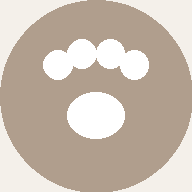
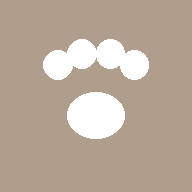
Add files via upload

diff --git a/index.html b/index.html
@@ -594,7 +594,7 @@ nav.menu-principal a.activo{
 
 <div class="card" id="descarga-app-card" style="text-align:center;">
 <h2 class="card-title" style="display:flex;align-items:center;justify-content:center;gap:10px;">
-<img src="icon-192.png" alt="" style="height:1em;width:1em;vertical-align:middle;border-radius:6px;">
+<img src="icon-192.png" alt="" style="height:1em;width:1em;vertical-align:middle;border-radius:50%;">
 App oficial de MichiHub
 </h2>
 <p style="margin-bottom:14px;opacity:0.85;">
@@ -604,7 +604,7 @@ Instalá la app en tu celular y accedé directo desde tu pantalla de inicio, sin
 ✅ Firma digital verificada (Google Digital Asset Links) · Publicada por el creador de este sitio · No se descarga desde ninguna tienda de terceros
 </p>
 <a href="MichiHub.apk" download class="btn-descarga" style="display:inline-flex;align-items:center;gap:8px;">
-<img src="icon-192.png" alt="" style="height:1em;width:1em;vertical-align:middle;border-radius:4px;">
+<img src="icon-192.png" alt="" style="height:1em;width:1em;vertical-align:middle;border-radius:50%;">
 Descargar app (.apk)
 </a>
 <p style="margin-top:14px;font-size:0.8rem;opacity:0.65;">
